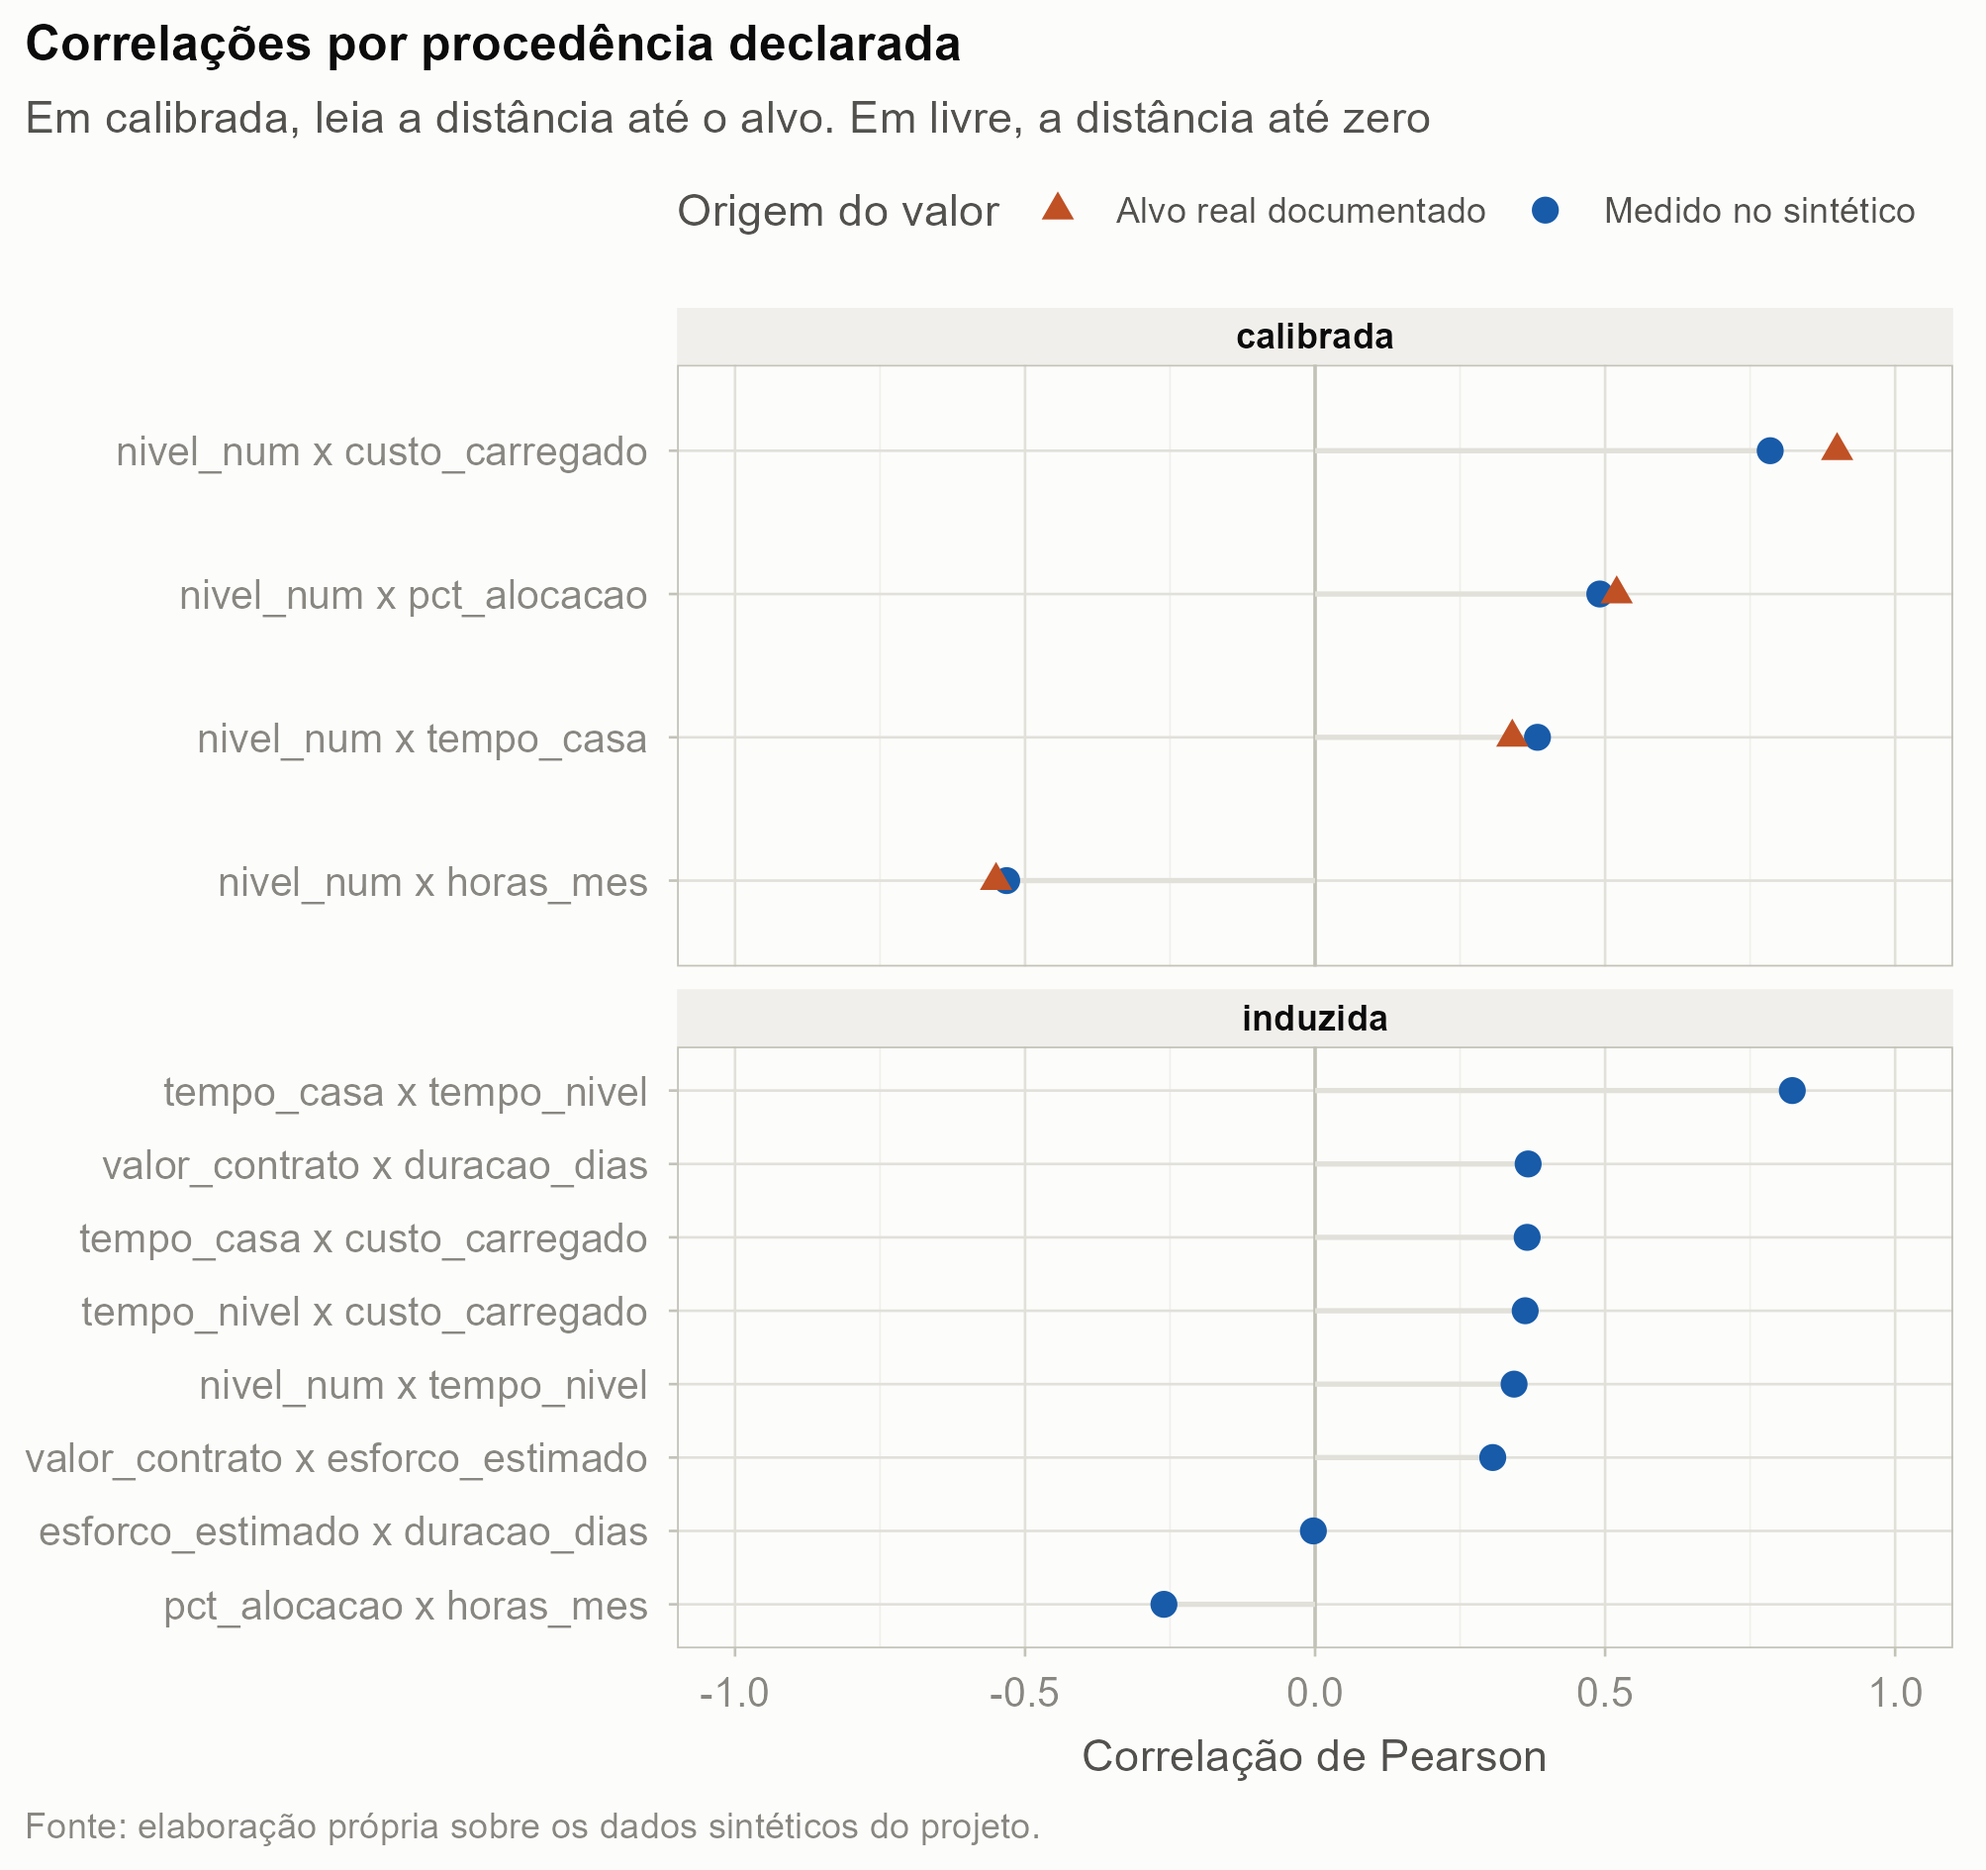
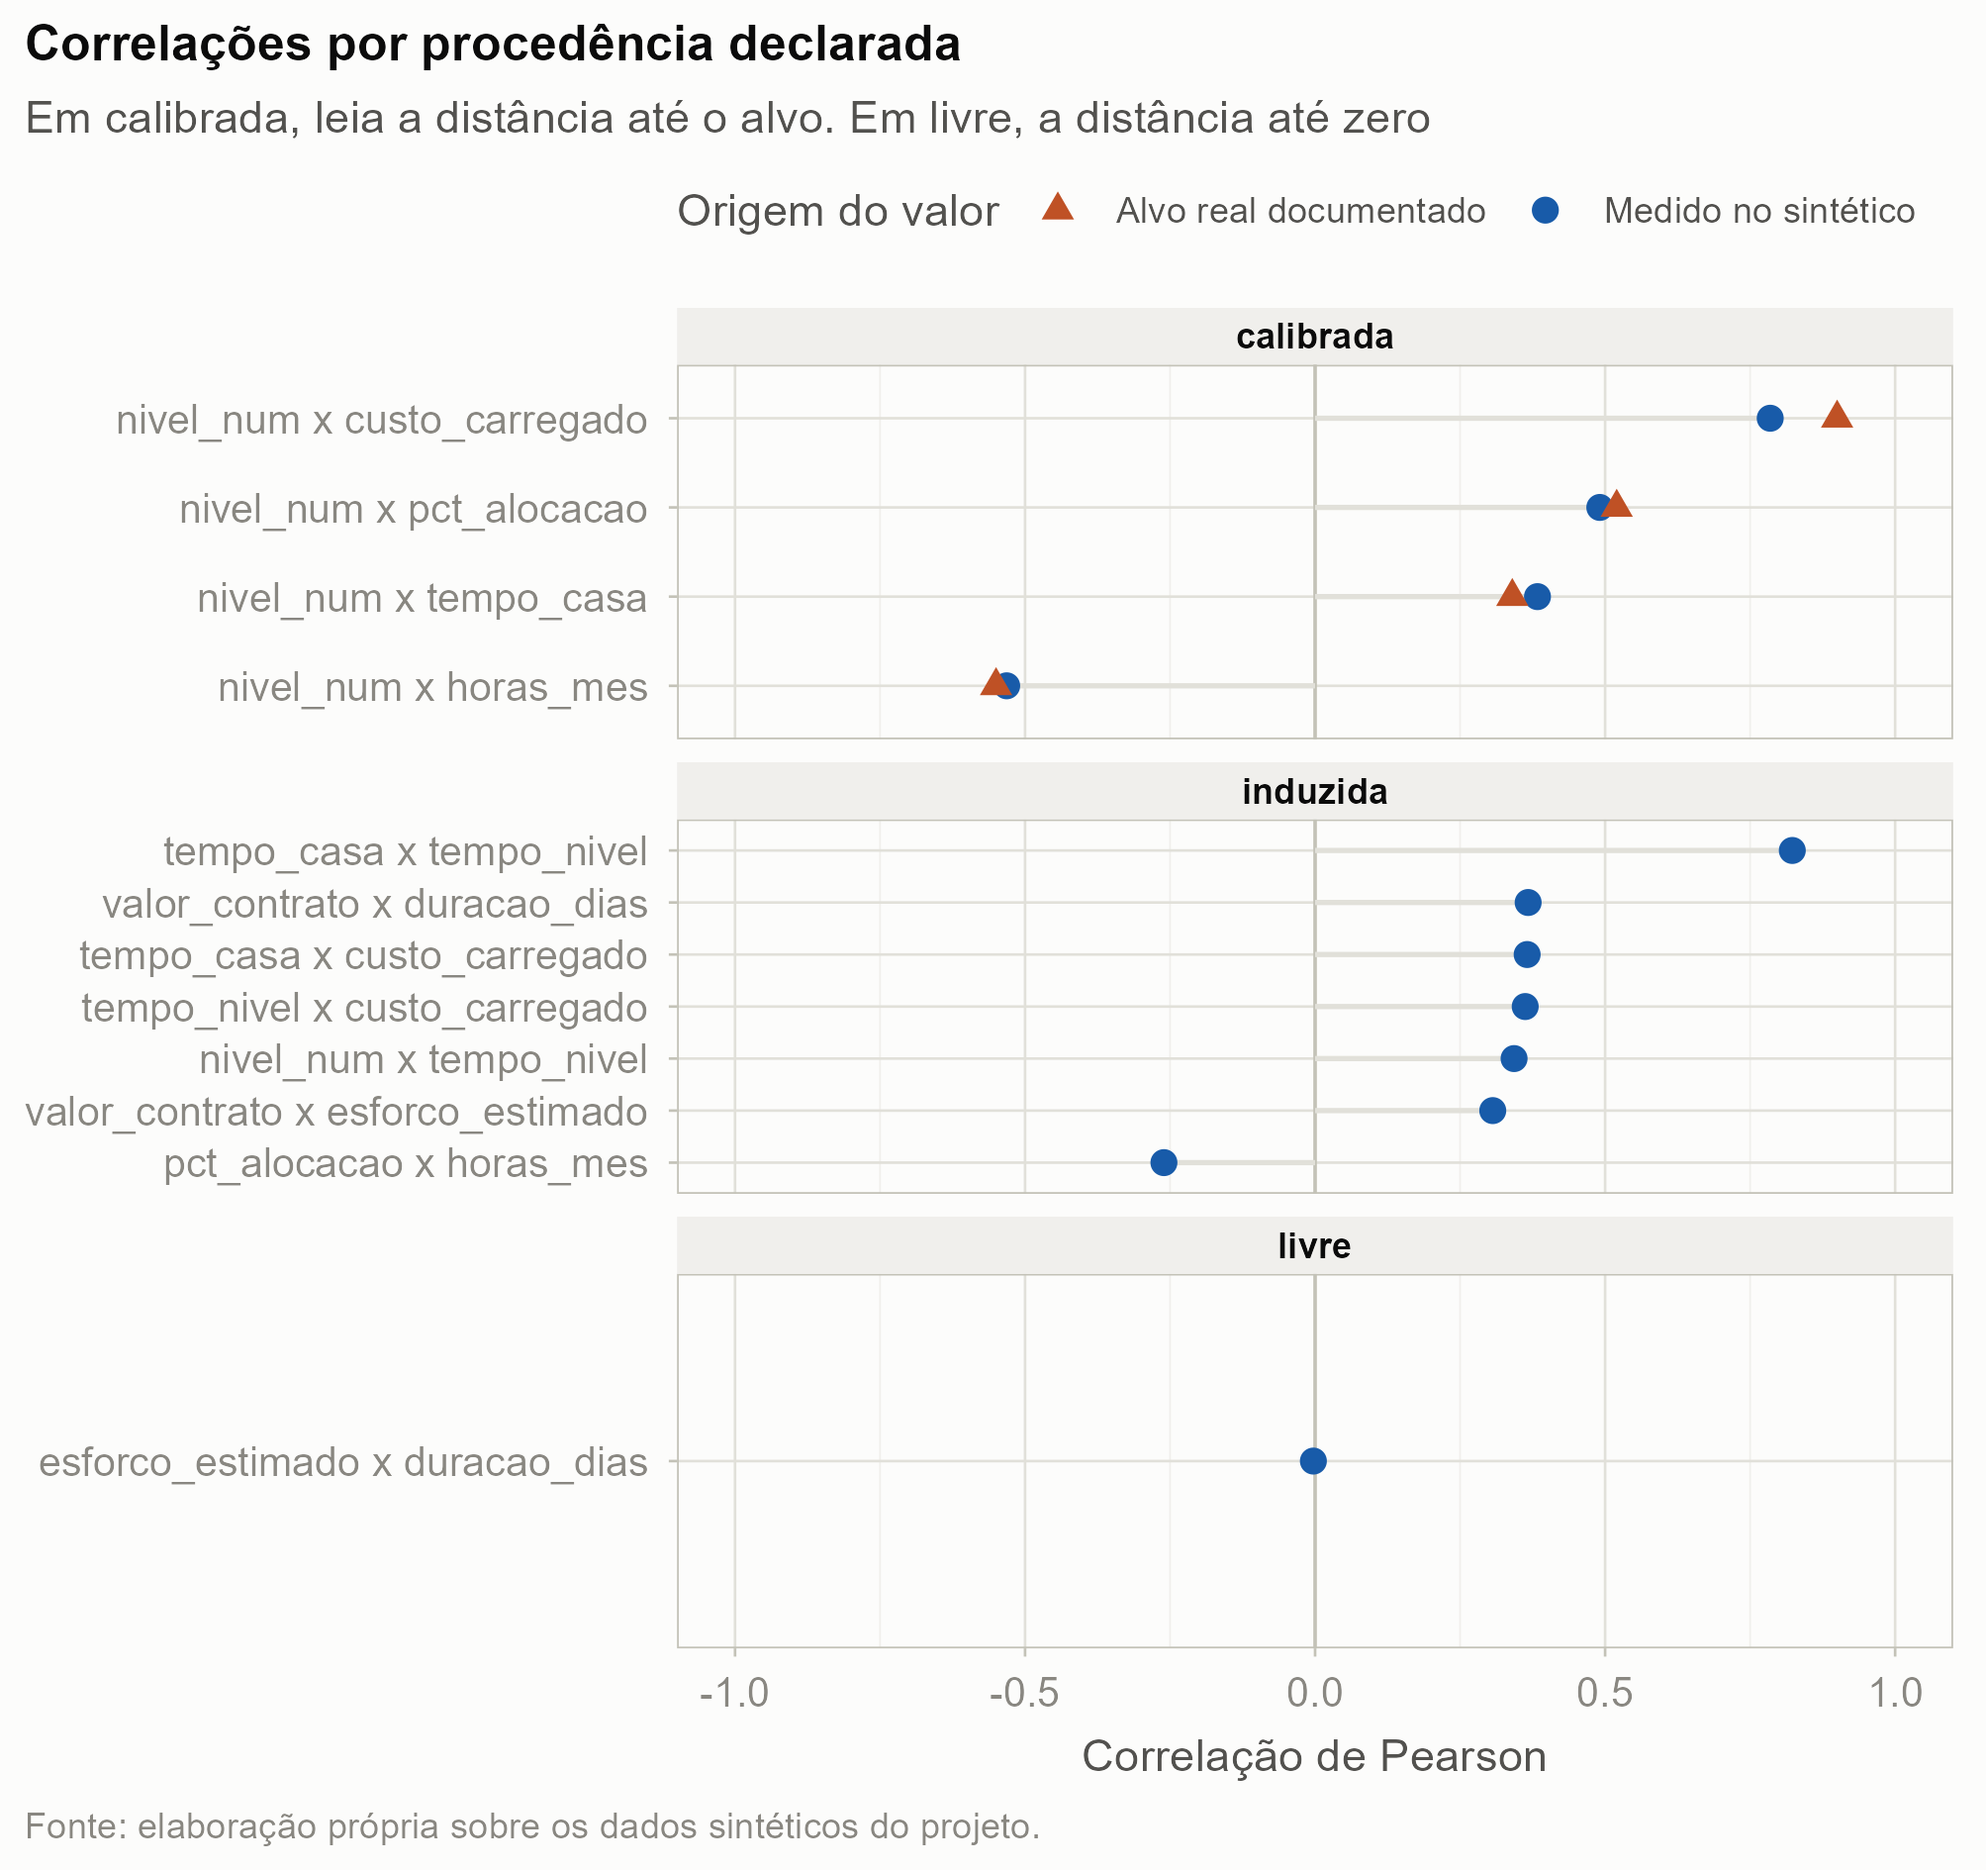
fix: alinha o texto da EDA aos numeros da recalibracao
A recalibracao da duracao das alocacoes mudou numeros que varias
frases citavam com o valor antigo. Uma revisao do texto renderizado,
bloco a bloco, achou e corrigiu essas frases, e as que dependem da
realizacao passaram a sair do dado em vez de ficar digitadas.

Entre as correcoes de conteudo: o quinto percentil da margem e
positivo e deixava de ser lido como prejuizo; o par esforco e duracao
volta para livre; o veredito do candidato (d) passa a exigir mediana e
fracao de prejuizo perto das reais, e nao so a fracao; o II.2 separa
os 6% de linhas sem casar da base silver dos 98% da base gold; e a
Parte III corrige qual achado e ancora real dependente do gerador.

diff --git a/docs/mapeamento_schema.md b/docs/mapeamento_schema.md
@@ -986,7 +986,9 @@ inutilizável. Não é incompletude, e não é custo.
 `ID` da view gold é `cod_id_funcionario`. Em `silver.bi_peers_entidades_globais`
 casam 432 de 511 códigos, e nos casados o primeiro nome coincide em 100% e o
 nome completo em 98,1%. A view gold perde cerca de 100 códigos; usar
-`gold.apdata_entidades_globais` eleva a cobertura para cerca de 98%.
+`gold.apdata_entidades_globais` eleva a cobertura para cerca de 98%. Na base
+silver, 79 códigos, ou 310 linhas de alocação (6%), não casam, e só 9 códigos
+não casam em nenhuma tabela testada.
 
 Duas ressalvas. As chaves Starsoft não servem para este join, com 18% de
 coincidência, que são colisões. E a cadeia NetSuite faz o oposto:
